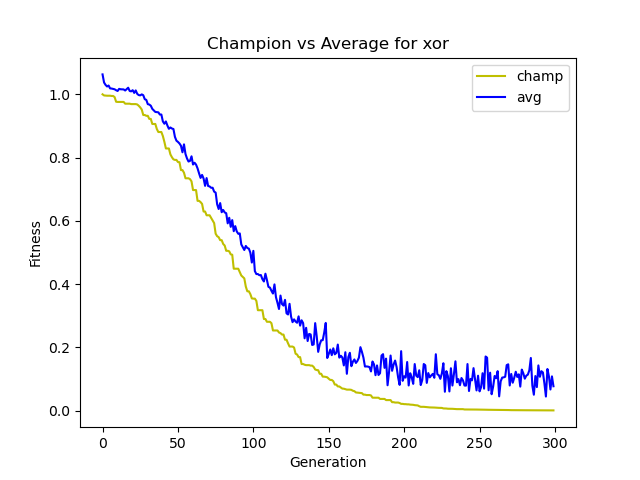
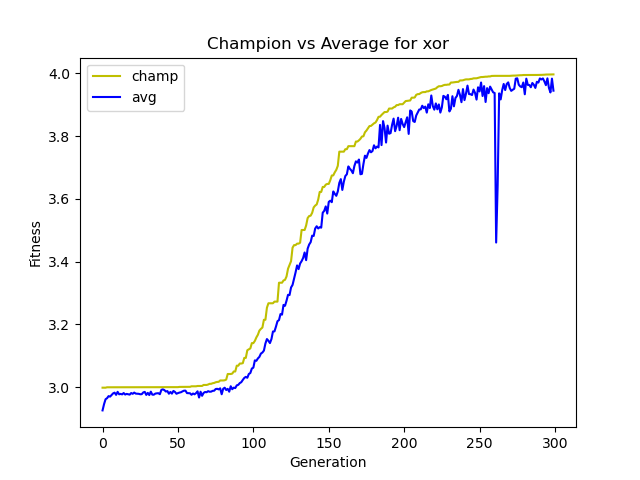
update

diff --git a/neat/xor_neat.py b/neat/xor_neat.py
@@ -1,45 +1,19 @@
-import math
-
-import numpy as np
 from matplotlib import pyplot as plt
 from Population import Population
-from numpy.random import binomial as bin
-from random import uniform
-from math import floor
+from pole_balancing.progress_bar import printProgressBar
 
 
 def xor(x, y):
     return (x + y) % 2
 
 
-def log_and(x, y):
-    if x == 0 or y == 0:
-        return 0
-    return 1
-
-
-def evaluate_log_and(organism):
-    for a in range(2):
-        for b in range(2):
-            output_val = organism.feedforward([a, b])[0].output_val
-            if a == 0 or b == 0:
-                organism.fitness += abs(output_val - log_and(a, b))
-            else:
-                organism.fitness += abs(output_val - log_and(a, b)) * 2
-
-
 def evaluate_xor(organism):
+    fitness = 4
     for a in range(2):
         for b in range(2):
             output_val = organism.feedforward([a, b])[0].output_val
-            organism.fitness += (output_val - xor(a, b)) ** 2
-
-
-def simple_evaluate(organism):
-    a, b = 1, 1
-    output_val = organism.feedforward([a, b])[0].output_val
-    organism.fitness += abs(output_val - xor(a, b)) * 100
-
+            fitness -= (output_val - xor(a, b)) ** 2
+    organism.fitness = -fitness  # minus sign because of sorting specifics
 
 
 def main():
@@ -49,37 +23,23 @@ def main():
     n = 100
     epochs = 300
     population = Population(n, 2, 1)
+    print_progress_bar = True
+    save_champ_path = "xor_champ.json"
 
-    # count = 0
-
-    # for organism in population.organisms:
-    #     population.add_node(organism)
-    #     population.add_node(organism)
-
-    #     # for i in range(2):
-    #     #     population.add_connection(organism)
-    #     if count % 4 == 0:
-    #         population.add_node(organism)
-    #         # for i in range(2):
-    #         #     population.add_connection(organism)
-    #     # if count % 5 == 0:
-    #     #     population.add_node(organism)
-    #     #     population.add_connection(organism)
-    #     #     population.add_connection(organism)
-    #     count += 1
+    if print_progress_bar:
+        printProgressBar(0, epochs, prefix='Progress:', suffix='Complete', length=50)
 
     for i in range(epochs):
         avg = 0.0
         for organism in population.organisms:
             evaluate_xor(organism)
-            avg += organism.fitness
+            avg -= organism.fitness  # minus sign because algorithm uses negative fitness
         average_fitness.append(avg/len(population.organisms))
 
         population.update_champion()
-        champion_fitness.append(population.champion.fitness)
+        champion_fitness.append(-population.champion.fitness)
 
         population.create_species()
-        # print(len(population.species))
 
         population.natural_selection()
 
@@ -87,30 +47,22 @@ def main():
 
         population.connections_history.clear()
 
-    print("================================")
+        if print_progress_bar:
+            printProgressBar(i + 1, epochs, prefix='Progress:', suffix='Complete', length=50)
+
     for organism in population.organisms:
         evaluate_xor(organism)
     population.update_champion()
-
-    for a in range(2):
-        for b in range(2):
-            print([a, b], population.champion.feedforward([a, b]))
-
-    print("FITNESS:", population.champion.fitness)
-    population.champion.draw()
-    print(population.champion.input_nodes)
-    print(population.champion)
 
     plt.plot([i for i in range(epochs)], champion_fitness, color='y', label='champ')
     plt.plot([i for i in range(epochs)], average_fitness, color='b', label='avg')
     plt.xlabel("Generation")
     plt.ylabel("Fitness")
     plt.title("Champion vs Average for xor")
-    # # plt.xticks([i for i in range(0, epochs, 10)])
     plt.legend()
     plt.show()
 
-    population.champion.save("xor_champ.json")
+    population.champion.save(save_champ_path)
 
 
 if __name__ == "__main__":

diff --git a/neat/sandbox.py b/neat/sandbox.py
@@ -14,11 +14,17 @@ from random import uniform, sample
 
 from Population import Population
 
-net = Population(1, 5, 1).organisms[0]
+pop = Population(2, 2, 1)
+net = pop.organisms[0]
+net2 = pop.organisms[1]
 
-net1 = nn.load("C:/Users/yevhe/PycharmProjects/NEAT/double_pole_balancing/dpb_champ_ver4.json")
+# net1 = nn.load("C:/Users/yevhe/PycharmProjects/NEAT/double_pole_balancing/dpb_champ_ver4.json")
 # net1 = nn.load("C:/Users/yevhe/PycharmProjects/NEAT/pole_balancing/champ_ver3.json")
+net1 = nn.load("C:/Users/yevhe/PycharmProjects/NEAT/neat/xor_champ.json")
 net1.draw()
 print(net1)
 print(net1.fitness)
-print(net.get_difference(net1))
+
+for a in range(2):
+    for b in range(2):
+        print([a, b], net1.feedforward([a, b])[0].output_val)

diff --git a/neat/xor_config.py b/neat/xor_config.py
@@ -1,0 +1,25 @@
+from neat.Node import Node
+
+# crossover parameters
+CHOOSE_ANOTHER_GENE_PROBABILITY = 0.5  # default 0.5
+DISABLE_GENE_PROBABILITY = 0.75  # default 0.75
+
+# mutations parameters
+MUTATE_WEIGHT_PROBABILITY = 0.8
+RESET_WEIGHT_PROBABILITY = 0.1
+ADD_NODE_PROBABILITY = 0.002
+ADD_CONNECTION_PROBABILITY = 0.005
+CROSSOVER_PROBABILITY = 0.75
+
+# species division parameters
+COMPATIBILITY_THRESHOLD = 3
+EXCESS_GENE_COEFF = 1
+DISJOINT_GENE_COEFF = 1
+AVERAGE_WEIGHT_DIFF_COEFF = 0.5
+MIN_GENOME_LENGTH = 20
+
+# selection parameters
+MAX_STALENESS = 2000
+
+# network parameters(used for pole balancing)
+ACTIVATION_FUNCTION = Node.sigmoid

diff --git a/double_pole_balancing/double_pole_balancing.py b/double_pole_balancing/double_pole_balancing.py
@@ -60,9 +60,9 @@ def check_game_over(angle, angle1, cart_pos, bound=pi / 6):
 
 
 human_plays = False
-visualise = False  # can't be False if human_plays is True
+visualise = True  # can't be False if human_plays is True
 decision_frequency = 20  # how often will net be asked for decision(must be int)
-replay = False
+replay = True
 
 wait_before_replay = False  # makes recording easier
 blue = [0, 0, 255]
